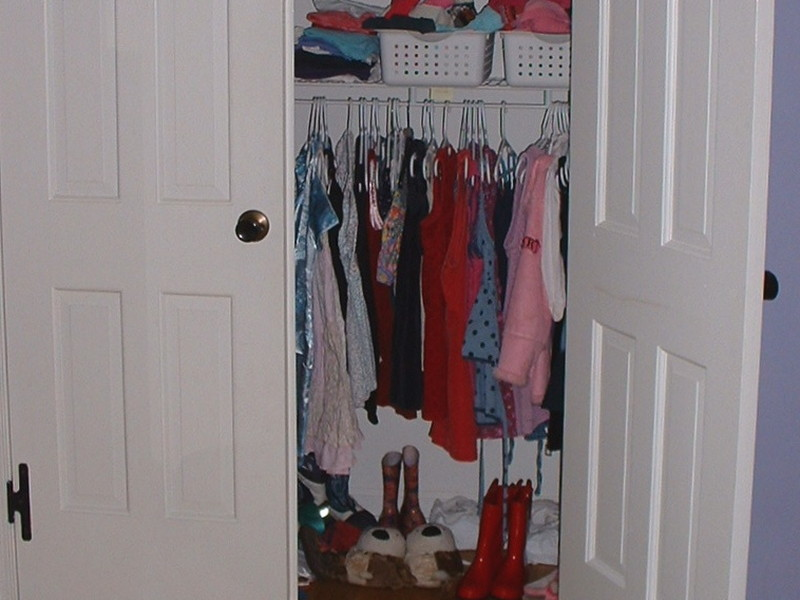
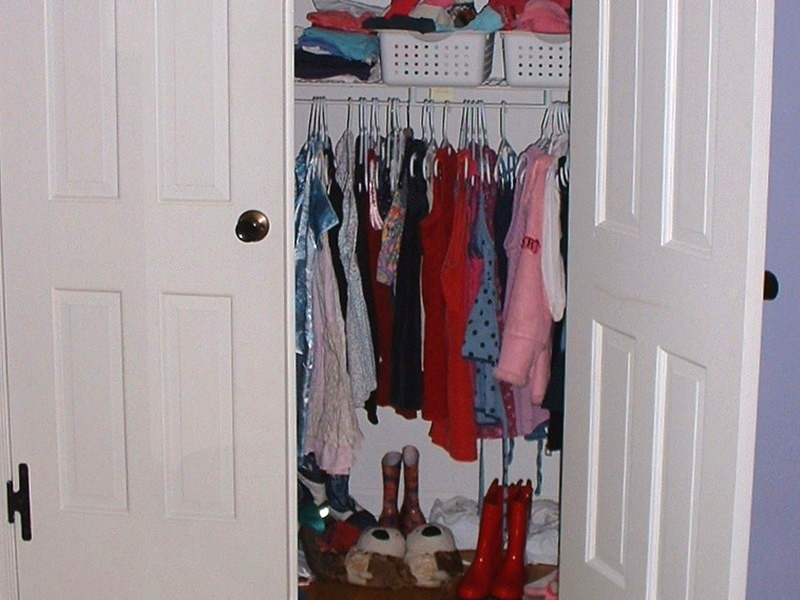
cards: 第18巻の찬장を全体が入る写真(左右の壁をのばして800×600)に、옷장を明るく整えた写真に差し替え・PHOTO_VER=13

diff --git a/cards.html b/cards.html
@@ -1194,7 +1194,7 @@ var VOLUMES = [
   /* 音声ファイルを追加したら、この数字を上げてください（ブラウザに残った古い404を避けるため） */
   var AUDIO_VER = "2";
   /* 写真を差し替えたら、この数字を上げてください（ブラウザに残った古い画像を避けるため） */
-  var PHOTO_VER = "12";
+  var PHOTO_VER = "13";
   var LANG_KEY = "levelupk_cards_lang";
   var probeCache = {};
   var lang = "ja";

diff --git a/assets/photos/CREDITS.md b/assets/photos/CREDITS.md
@@ -13,7 +13,7 @@ CC BY / CC BY-SA の写真は、カードの下に「写真：作者 ／ Wikimed
 第12巻（しょっき）の 숟가락・젓가락・밥그릇・국그릇・국자・쟁반・접시 と、第13巻（ふく・かばん・くつ）の 한복 は、2026-11-26 に韓国式の写真へ差し替えました（접시 は元写真からフォークとナイフを消して背景を作り直し）。
 第13巻の 원피스 は、2026-11-26 に、ドレスそのものが主役になる大人のワンピース（ソウル・東大門デザインプラザの写真）に、책가방 は、日本のランドセルではなく、韓国の子どもが実際に使うようなナイロン製のスクールリュックに差し替えました。
 第24巻（おもちゃ）の 인형 は、2026-11-26 に中国風の人形から、韓服（チマ・チョゴリ）を着た韓国の人形（オークランド博物館所蔵）に、팽이 は、上から見た金属のこまから、回っているようすが分かるカラフルなこま（Skitterphoto の CC0 写真）に差し替えました。
-第18巻（かぐ）の 책상 は、コンピューターや雑貨の少ない、机そのものが主役の写真に、옷장 は、扉を開けて服が見える写真に、2026-11-26 に差し替えました。同じ第18巻の最後の4語は、이불（ふとん）→사이드 테이블、베개（まくら）→자개장（らでんたんす、メトロポリタン美術館所蔵）、커튼（カーテン）→붙박이장（つくりつけクローゼット）、카펫（カーペット）→찬장（しょっきだな）に、ことばごと入れ替えました（2026-11-26）。
+第18巻（かぐ）の 책상 は、コンピューターや雑貨の少ない、机そのものが主役の写真に、옷장 は、扉を開けて服が見える写真に、2026-11-26 に差し替えました。同じ第18巻の最後の4語は、이불（ふとん）→사이드 테이블、베개（まくら）→자개장（らでんたんす、メトロポリタン美術館所蔵）、커튼（カーテン）→붙박이장（つくりつけクローゼット）、카펫（カーペット）→찬장（しょっきだな）に、ことばごと入れ替えました（2026-11-26）。찬장 は縦長の写真なので、左右の壁をのばして 800×600 に収めました。
 
 | 巻 | ファイル | ことば | 元のファイル | 作者 | ライセンス | 出典 |
 |---|---|---|---|---|---|---|
